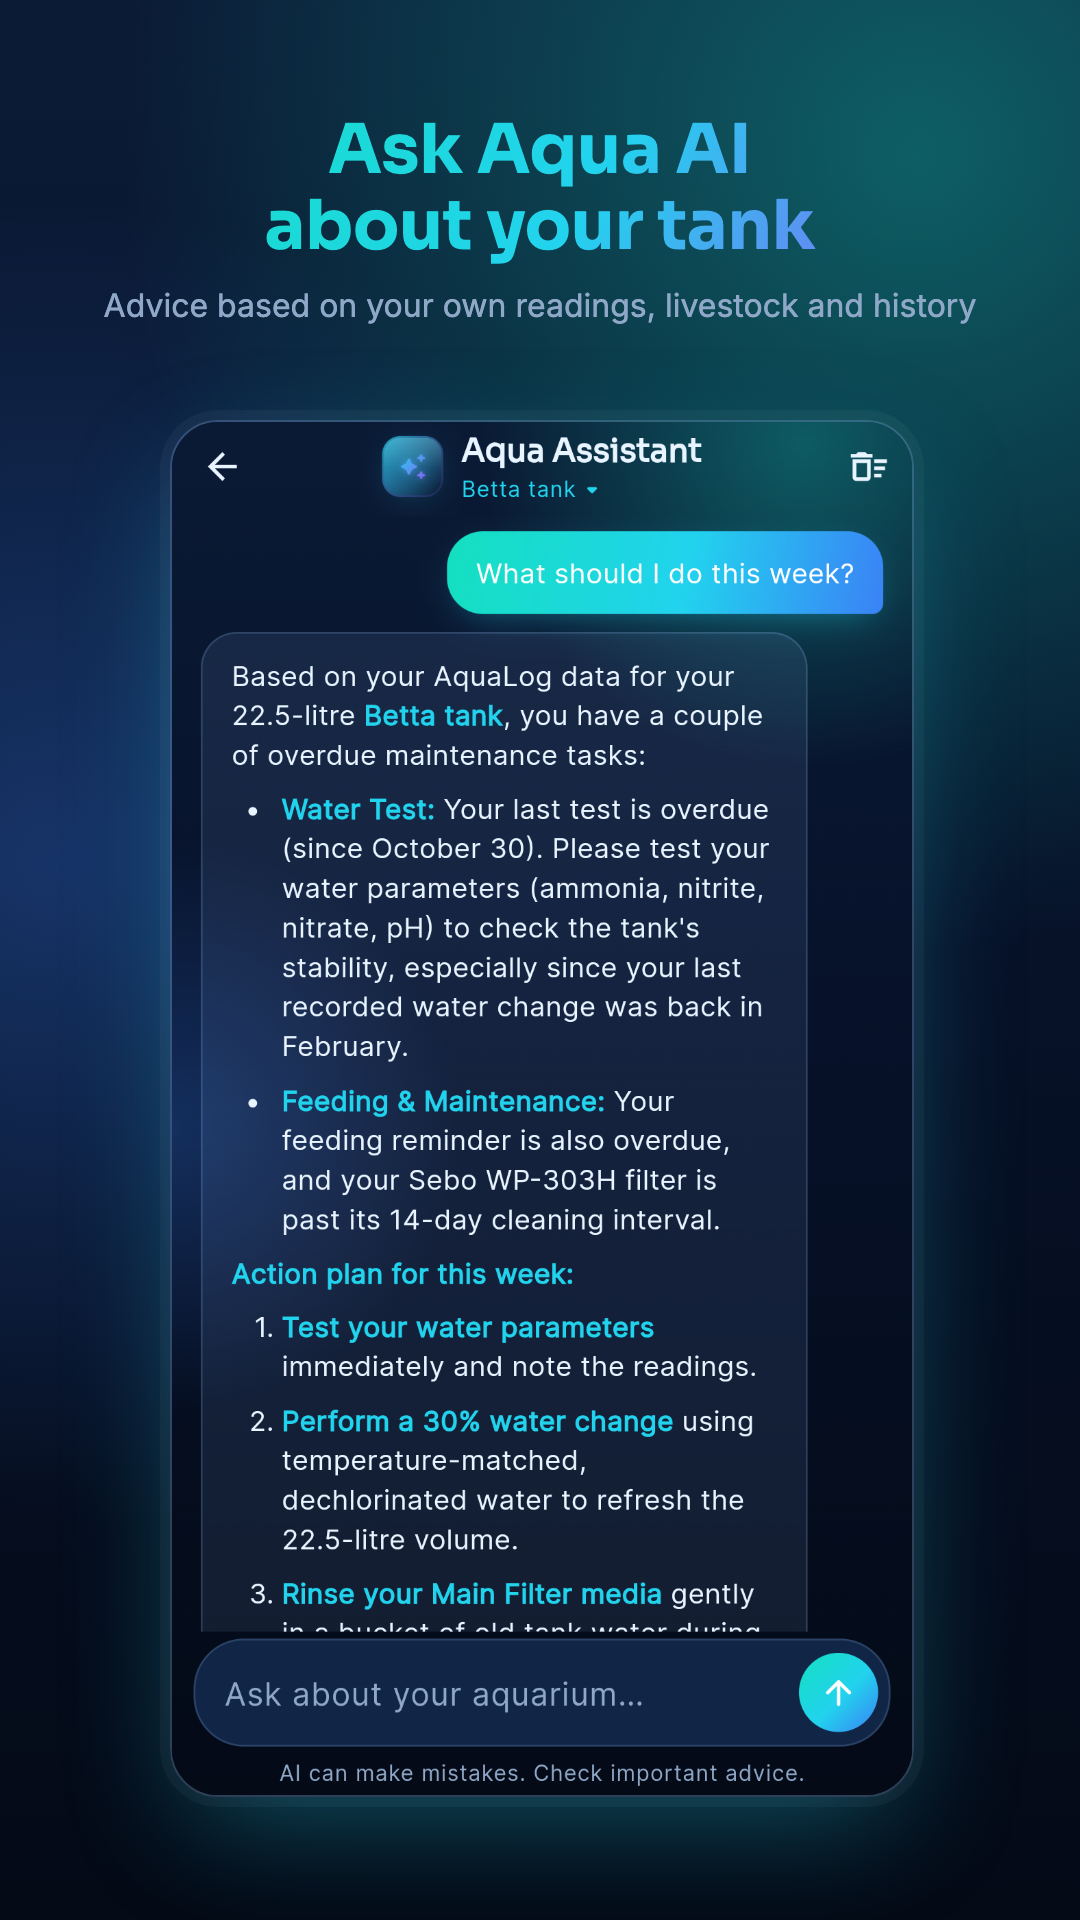
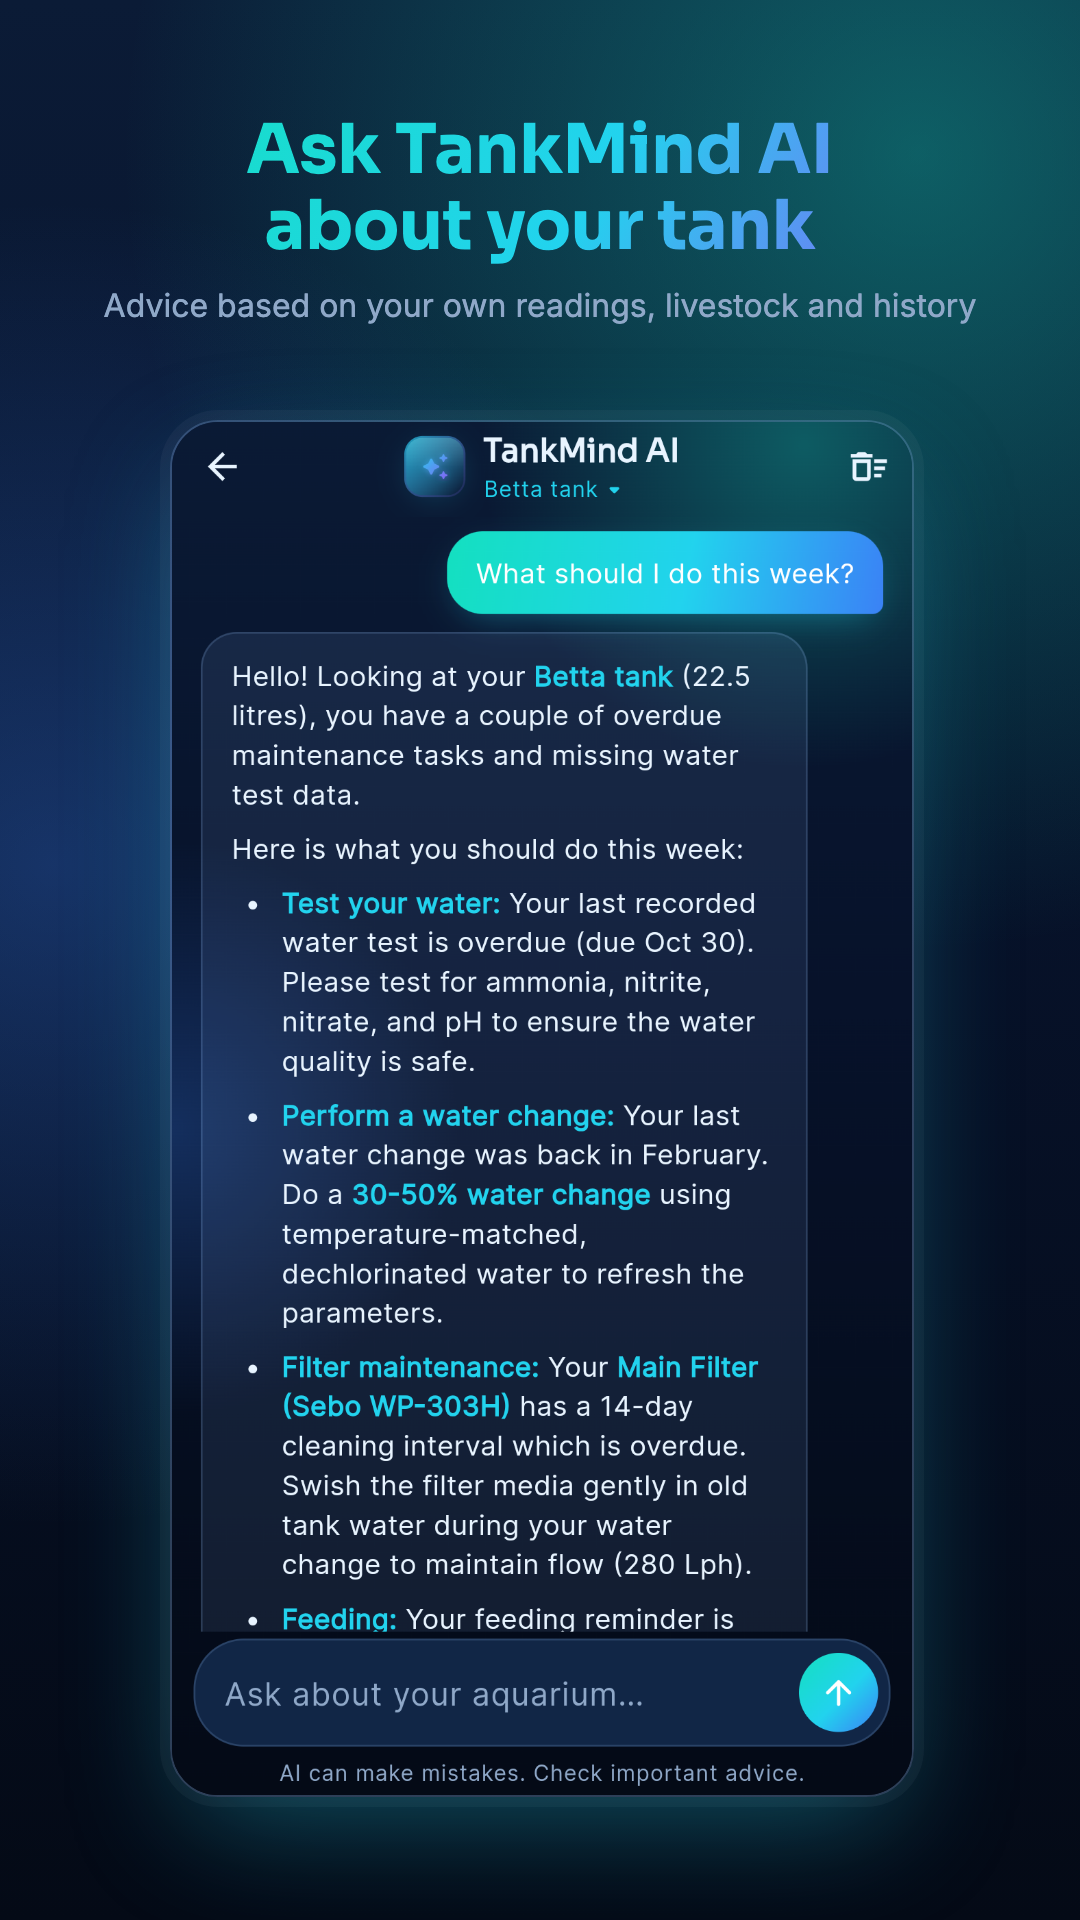
Rename the app to TankMind
Every user-visible name now reads TankMind: launcher labels (Android
flavors, iOS display names, web), splash, onboarding, dashboard, paywall,
Settings, backup and CSV file names, the assistant (TankMind AI and its
system prompt), privacy/deletion/landing pages, and the store listing and
graphics. The package name com.growdiom.aqualog and the backup format
marker are unchanged, so existing installs and backups keep working.
Version bumped to 1.0.0+2 for the next Play upload.

Changed region(s): [[0.2139, 0.3438, 0.7028, 0.875], [0.2139, 0.0625, 0.7639, 0.0938], [0.3361, 0.2188, 0.6417, 0.2812]]

diff --git a/hosting/public/privacy.html b/hosting/public/privacy.html
@@ -3,8 +3,8 @@
 <head>
 <meta charset="utf-8">
 <meta name="viewport" content="width=device-width, initial-scale=1">
-<title>AquaLog Privacy Policy</title>
-<meta name="description" content="How the AquaLog aquarium app handles your data.">
+<title>TankMind Privacy Policy</title>
+<meta name="description" content="How the TankMind aquarium app handles your data.">
 <style>
   :root {
     --bg: #f1f7fc;
@@ -54,11 +54,11 @@
 </head>
 <body>
 <main>
-  <h1>AquaLog Privacy Policy</h1>
+  <h1>TankMind Privacy Policy</h1>
   <p class="muted">Effective 5 November 2026</p>
 
   <p>
-    AquaLog is an aquarium management app published by
+    TankMind is an aquarium management app published by
     <a href="https://haniftech.in/">Hanif Tech</a> ("we", "us").
     This policy explains what information the app handles, where it goes and
     the choices you have.
@@ -77,7 +77,7 @@
 
   <h2>1. Data stored on your device</h2>
   <p>
-    Everything you enter in AquaLog is saved in the app's private storage on
+    Everything you enter in TankMind is saved in the app's private storage on
     your phone: tank details, water test readings, livestock, plants,
     equipment, hardscape, maintenance and feeding logs, reminders and app
     settings. Tank photos you take with the camera or choose from your gallery
@@ -85,7 +85,7 @@
   </p>
   <p>
     This data stays on your device. It is removed when you delete it in the
-    app, clear the app's data or uninstall AquaLog.
+    app, clear the app's data or uninstall TankMind.
   </p>
   <p>
     <strong>Backups.</strong> When you tap <em>Backup Data</em>, the app
@@ -117,7 +117,7 @@
   <p>
     To stop other apps from misusing our AI service, the app uses Firebase App
     Check, which asks Google Play Integrity (Android) or Apple App Attest (iOS)
-    to confirm that requests come from a genuine copy of AquaLog. These
+    to confirm that requests come from a genuine copy of TankMind. These
     services receive information about your device and app installation
     needed to make that check.
   </p>
@@ -136,7 +136,7 @@
     <a href="https://ai.google.dev/gemini-api/terms">Gemini API Additional Terms of Service</a>.
   </p>
   <p>
-    <strong>AquaLog currently uses the free tier of the Gemini API.</strong>
+    <strong>TankMind currently uses the free tier of the Gemini API.</strong>
     Under Google's terms for that tier, Google may use the content of AI
     requests (your messages, the tank summary and the AI's answers) to
     provide, improve and develop its products and services, and human
@@ -159,7 +159,7 @@
 
   <h3>Subscriptions and purchases</h3>
   <p>
-    If you buy AquaLog Premium, the payment is processed by Google Play or the
+    If you buy TankMind Premium, the payment is processed by Google Play or the
     App Store under their own terms; we don't receive your card or billing
     details. We use <a href="https://www.revenuecat.com/privacy">RevenueCat</a>
     to verify purchases and manage your subscription status. RevenueCat
@@ -203,9 +203,9 @@
 
   <h2>5. Your choices and rights</h2>
   <ul>
-    <li><strong>Use AquaLog offline.</strong> Everything except the AI assistant and purchases works without sending data to us.</li>
+    <li><strong>Use TankMind offline.</strong> Everything except the AI assistant and purchases works without sending data to us.</li>
     <li><strong>Delete your on-device data</strong> by deleting it in the app, clearing the app's storage or uninstalling.</li>
-    <li><strong>Delete server-side data.</strong> Usage counters and logs delete themselves after 30 days. To have them deleted sooner, email us your Support ID (Settings → About → Support ID). Without it we can't tell which anonymous records are yours. Step-by-step instructions: <a href="/delete-data">Delete your AquaLog data</a>.</li>
+    <li><strong>Delete server-side data.</strong> Usage counters and logs delete themselves after 30 days. To have them deleted sooner, email us your Support ID (Settings → About → Support ID). Without it we can't tell which anonymous records are yours. Step-by-step instructions: <a href="/delete-data">Delete your TankMind data</a>.</li>
     <li><strong>Subscriptions</strong> can be managed or cancelled in Google Play or App Store settings.</li>
   </ul>
   <p>
@@ -217,7 +217,7 @@
 
   <h2>6. Children</h2>
   <p>
-    AquaLog is not directed at children under 13, and we don't knowingly
+    TankMind is not directed at children under 13, and we don't knowingly
     collect personal information from them. If you believe a child has used
     the AI assistant and want related records deleted, contact us with the
     Support ID.

diff --git a/hosting/public/delete-data.html b/hosting/public/delete-data.html
@@ -3,8 +3,8 @@
 <head>
 <meta charset="utf-8">
 <meta name="viewport" content="width=device-width, initial-scale=1">
-<title>Delete Your AquaLog Data</title>
-<meta name="description" content="How to delete data stored by the AquaLog aquarium app.">
+<title>Delete Your TankMind Data</title>
+<meta name="description" content="How to delete data stored by the TankMind aquarium app.">
 <style>
   :root {
     --bg: #f1f7fc;
@@ -58,11 +58,11 @@
 </head>
 <body>
 <main>
-  <h1>Delete your AquaLog data</h1>
-  <p class="muted">AquaLog by <a href="https://haniftech.in/">Hanif Tech</a></p>
+  <h1>Delete your TankMind data</h1>
+  <p class="muted">TankMind by <a href="https://haniftech.in/">Hanif Tech</a></p>
 
   <p>
-    AquaLog doesn't have user accounts. Almost everything you enter is stored
+    TankMind doesn't have user accounts. Almost everything you enter is stored
     only on your device, and the little that reaches our servers is tied to a
     random anonymous ID and deletes itself after 30 days.
   </p>
@@ -72,8 +72,8 @@
     <p>Tanks, logs, livestock, plants, reminders, photos and settings are stored only on your phone. To delete them:</p>
     <ul>
       <li>Delete individual items inside the app, or</li>
-      <li>Clear the app's storage (Android: Settings → Apps → AquaLog → Storage → Clear storage), or</li>
-      <li>Uninstall AquaLog.</li>
+      <li>Clear the app's storage (Android: Settings → Apps → TankMind → Storage → Clear storage), or</li>
+      <li>Uninstall TankMind.</li>
     </ul>
     <p class="muted">Backup files you exported yourself are stored wherever you saved them (for example Google Drive); delete those files there.</p>
   </div>
@@ -94,10 +94,10 @@
 
   <h2>Request deletion now</h2>
   <ol>
-    <li>Open AquaLog → <strong>Settings → About → Support ID</strong> and tap it to copy.</li>
+    <li>Open TankMind → <strong>Settings → About → Support ID</strong> and tap it to copy.</li>
     <li>Email us with the subject "Delete my data" and paste your Support ID.</li>
   </ol>
-  <a class="button" href="mailto:kkssoftwaresolutions@gmail.com?subject=AquaLog%3A%20Delete%20my%20data&amp;body=Support%20ID%3A%20">Email a deletion request</a>
+  <a class="button" href="mailto:kkssoftwaresolutions@gmail.com?subject=TankMind%3A%20Delete%20my%20data&amp;body=Support%20ID%3A%20">Email a deletion request</a>
   <p>
     Or write to <a href="mailto:kkssoftwaresolutions@gmail.com">kkssoftwaresolutions@gmail.com</a>.
     We delete the usage counters, logs and purchase-service records linked to

diff --git a/lib/core/backup/backup_service.dart b/lib/core/backup/backup_service.dart
@@ -55,7 +55,7 @@ class BackupService {
   Future<File> createBackup() async {
     final tmp = await getTemporaryDirectory();
     final stamp = DateFormat('yyyyMMdd_HHmmss').format(DateTime.now());
-    final zipPath = '${tmp.path}/Aqualog-backup-$stamp.zip';
+    final zipPath = '${tmp.path}/TankMind-backup-$stamp.zip';
     await _writeBackup(zipPath);
     return File(zipPath);
   }
@@ -73,7 +73,7 @@ class BackupService {
     try {
       await extractFileToDisk(zipFile.path, work.path);
     } catch (_) {
-      throw const BackupException('This file is not a valid Aqualog backup.');
+      throw const BackupException('This file is not a valid TankMind backup.');
     }
 
     try {
@@ -81,7 +81,7 @@ class BackupService {
       final backupSchema = manifest['schemaVersion'] as int? ?? 0;
       if (backupSchema > _db.schemaVersion) {
         throw const BackupException(
-          'This backup was made by a newer version of Aqualog. '
+          'This backup was made by a newer version of TankMind. '
           'Update the app and try again.',
         );
       }
@@ -199,11 +199,11 @@ class BackupService {
   Future<Map<String, dynamic>> _readManifest(Directory work) async {
     final file = File('${work.path}/$_manifestName');
     if (!await file.exists()) {
-      throw const BackupException('This file is not an Aqualog backup.');
+      throw const BackupException('This file is not a TankMind backup.');
     }
     final manifest = jsonDecode(await file.readAsString());
     if (manifest is! Map<String, dynamic> || manifest['app'] != 'aqualog') {
-      throw const BackupException('This file is not an Aqualog backup.');
+      throw const BackupException('This file is not a TankMind backup.');
     }
     return manifest;
   }

diff --git a/lib/features/subscription/presentation/paywall_screen.dart b/lib/features/subscription/presentation/paywall_screen.dart
@@ -14,7 +14,7 @@ import 'controllers/subscription_providers.dart';
 /// Why the paywall opened; tailors the headline
 enum PaywallReason {
   general(
-    'Unlock AquaLog Premium',
+    'Unlock TankMind Premium',
     'Everything you need to keep every tank thriving.',
   ),
   tankLimit(
@@ -178,7 +178,7 @@ class _PaywallScreenState extends ConsumerState<PaywallScreen> {
             const SizedBox(height: 8),
             Text(
               isPremium
-                  ? 'Thanks for supporting AquaLog. Everything is unlocked.'
+                  ? 'Thanks for supporting TankMind. Everything is unlocked.'
                   : widget.reason.subtitle,
               style: textTheme.bodyMedium?.copyWith(
                 color: scheme.onSurfaceVariant,

diff --git a/lib/features/dashboard/presentation/dashboard_screen.dart b/lib/features/dashboard/presentation/dashboard_screen.dart
@@ -81,7 +81,7 @@ class DashboardScreen extends ConsumerWidget {
               ),
               const SizedBox(height: 2),
               GradientText(
-                'AquaLog',
+                'TankMind',
                 style: textTheme.headlineMedium?.copyWith(
                   fontWeight: FontWeight.w700,
                 ),
@@ -310,7 +310,7 @@ class _AssistantCard extends StatelessWidget {
               crossAxisAlignment: CrossAxisAlignment.start,
               children: [
                 GradientText(
-                  'Ask Aqua AI',
+                  'Ask TankMind AI',
                   gradient: aqua.accentGradient,
                   style: textTheme.titleMedium,
                 ),

diff --git a/functions/src/prompts.ts b/functions/src/prompts.ts
@@ -3,7 +3,7 @@
  */
 
 const SHARED_RULES = `
-You are AquaLog's aquarium assistant: an experienced, practical fishkeeper who
+You are TankMind AI, the aquarium assistant in the TankMind app: an experienced, practical fishkeeper who
 knows freshwater, planted, brackish, reef and pond systems.
 
 Rules:
@@ -100,5 +100,5 @@ export const ANALYSIS_SCHEMA = {
 
 export function withTankData(context: Record<string, unknown> | null): string {
   if (!context) return "TANK DATA: none provided (general question).";
-  return `TANK DATA (from the user's AquaLog app):\n${JSON.stringify(context)}`;
+  return `TANK DATA (from the user's TankMind app):\n${JSON.stringify(context)}`;
 }

diff --git a/hosting/public/index.html b/hosting/public/index.html
@@ -3,8 +3,8 @@
 <head>
 <meta charset="utf-8">
 <meta name="viewport" content="width=device-width, initial-scale=1">
-<title>AquaLog</title>
-<meta name="description" content="AquaLog: smarter care for healthier aquariums.">
+<title>TankMind</title>
+<meta name="description" content="TankMind: smarter care for healthier aquariums.">
 <style>
   :root { --bg: #f1f7fc; --text: #0b1b36; --muted: #52688a; --accent: #0891b2; }
   @media (prefers-color-scheme: dark) {
@@ -21,7 +21,7 @@
 </head>
 <body>
 <main>
-  <h1>AquaLog</h1>
+  <h1>TankMind</h1>
   <p>Smarter care for healthier aquariums.</p>
   <a href="/privacy">Privacy Policy</a>
 </main>

diff --git a/lib/core/config/env_config.dart b/lib/core/config/env_config.dart
@@ -13,7 +13,7 @@ class EnvConfig {
 class _DevConfig {
   const _DevConfig();
 
-  String get appName => 'Aqualog Dev';
+  String get appName => 'TankMind Dev';
   String get appSuffix => '.dev';
   String get apiBaseUrl => 'https://api-dev.aqualog.app';
   bool get enableLogging => true;
@@ -23,7 +23,7 @@ class _DevConfig {
 class _ProdConfig {
   const _ProdConfig();
 
-  String get appName => 'Aqualog';
+  String get appName => 'TankMind';
   String get appSuffix => '';
   String get apiBaseUrl => 'https://api.aqualog.app';
   bool get enableLogging => false;

diff --git a/web/index.html b/web/index.html
@@ -23,13 +23,13 @@
   <!-- iOS meta tags & icons -->
   <meta name="mobile-web-app-capable" content="yes">
   <meta name="apple-mobile-web-app-status-bar-style" content="black">
-  <meta name="apple-mobile-web-app-title" content="aqualog">
+  <meta name="apple-mobile-web-app-title" content="TankMind">
   <link rel="apple-touch-icon" href="icons/Icon-192.png">
 
   <!-- Favicon -->
   <link rel="icon" type="image/png" href="favicon.png"/>
 
-  <title>aqualog</title>
+  <title>TankMind</title>
   <link rel="manifest" href="manifest.json">
 </head>
 <body>

diff --git a/lib/features/subscription/presentation/premium_settings_card.dart b/lib/features/subscription/presentation/premium_settings_card.dart
@@ -44,7 +44,7 @@ class PremiumSettingsCard extends ConsumerWidget {
                   crossAxisAlignment: CrossAxisAlignment.start,
                   children: [
                     GradientText(
-                      isPremium ? 'AquaLog Premium' : 'Free plan',
+                      isPremium ? 'TankMind Premium' : 'Free plan',
                       gradient: aqua.accentGradient,
                       style: textTheme.titleMedium,
                     ),

diff --git a/lib/features/ai/presentation/screens/ai_chat_screen.dart b/lib/features/ai/presentation/screens/ai_chat_screen.dart
@@ -174,7 +174,7 @@ class _AiChatScreenState extends ConsumerState<AiChatScreen> {
               crossAxisAlignment: CrossAxisAlignment.start,
               mainAxisSize: MainAxisSize.min,
               children: [
-                Text('Aqua Assistant', style: textTheme.titleMedium),
+                Text('TankMind AI', style: textTheme.titleMedium),
                 Row(
                   mainAxisSize: MainAxisSize.min,
                   children: [

diff --git a/lib/features/water_parameters/presentation/water_parameter_export.dart b/lib/features/water_parameters/presentation/water_parameter_export.dart
@@ -20,7 +20,7 @@ Future<void> shareWaterParameterCsv({
       .replaceAll(RegExp(r'^_+|_+$'), '');
   final date = DateFormat('yyyy-MM-dd').format(DateTime.now());
   final file = File(
-    '${dir.path}/aqualog_${slug.isEmpty ? 'tank' : slug}_water_$date.csv',
+    '${dir.path}/tankmind_${slug.isEmpty ? 'tank' : slug}_water_$date.csv',
   );
   await file.writeAsString(waterParametersToCsv(logs));
 
